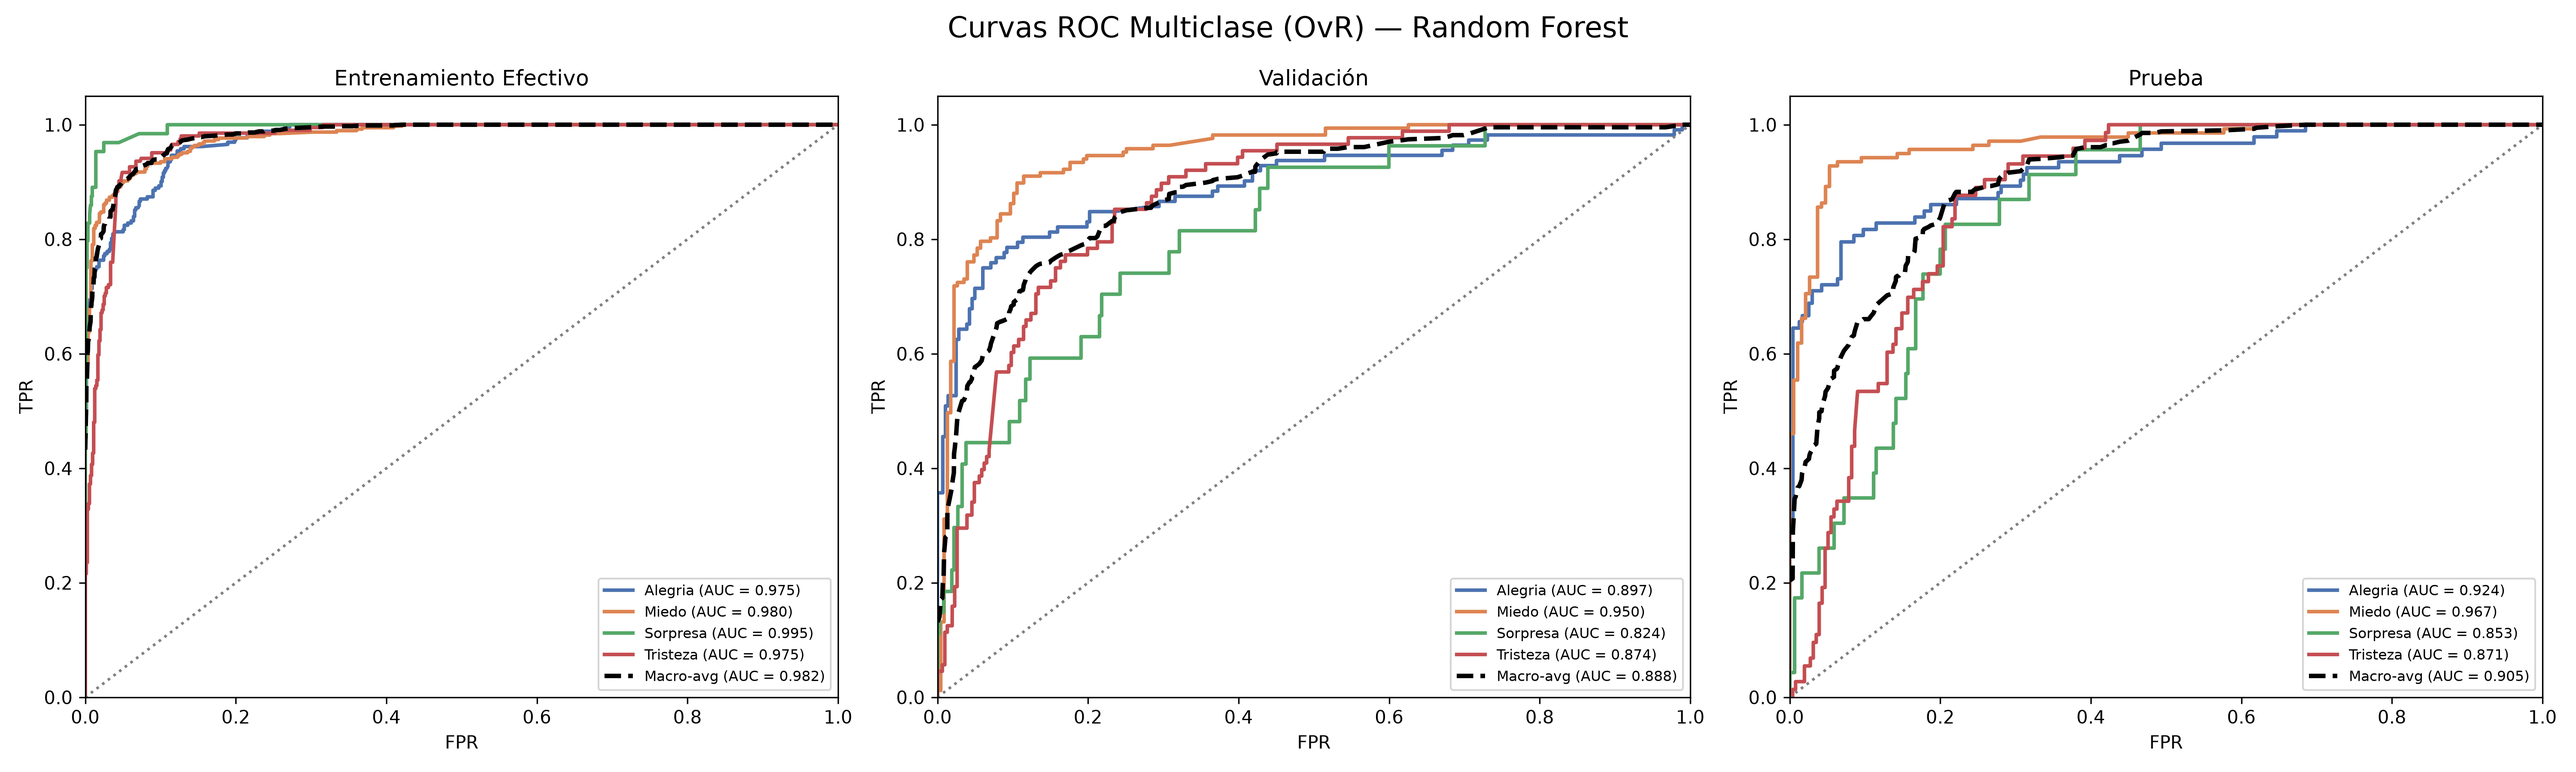
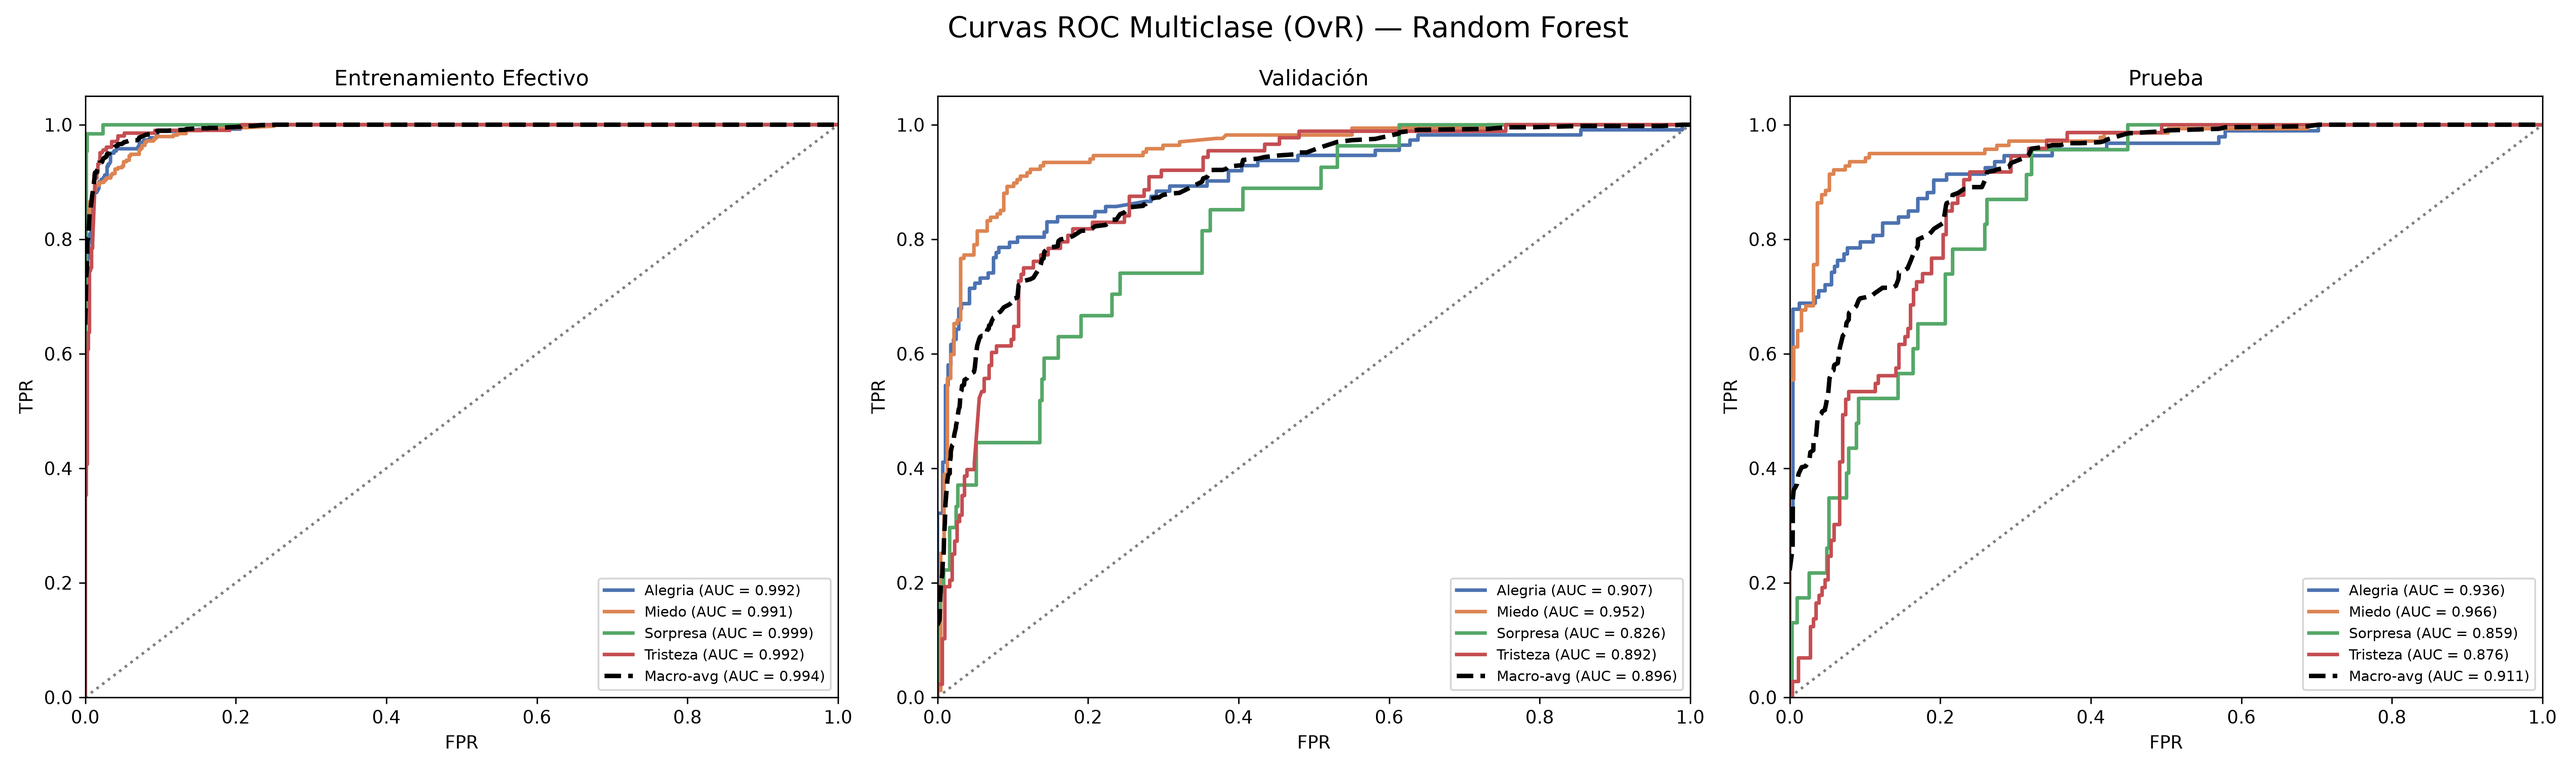
fix: quitar validación cruzada y modificar reporte de resultados

diff --git a/modelado/tecnicas-clasicas/pipeline.py b/modelado/tecnicas-clasicas/pipeline.py
@@ -6,7 +6,7 @@ import pandas as pd
 # pyrefly: ignore [missing-import]
 import matplotlib.pyplot as plt
 import seaborn as sns
-from sklearn.model_selection import train_test_split, GridSearchCV, StratifiedKFold
+from sklearn.model_selection import train_test_split
 from sklearn.feature_extraction.text import TfidfVectorizer
 from sklearn.svm import SVC
 from sklearn.calibration import CalibratedClassifierCV
@@ -137,22 +137,13 @@ def graficar_matrices_confusion_conjuntas(nombre_modelo, y_train, y_pred_train, 
 
     return nombre_archivo_cm
 
-def evaluar_modelo_grid(nombre_modelo, pipeline, param_grid,
-                        X_train, y_train, X_val, y_val, X_test, y_test,
-                        archivo_reporte, skf):
+def evaluar_modelo(nombre_modelo, pipeline,
+                     X_train, y_train, X_val, y_val, X_test, y_test,
+                     archivo_reporte):
     print(f"   -> Entrenando {nombre_modelo}...")
     
-    if param_grid:
-        print(f"      (Buscando mejores hiperparámetros con GridSearchCV...)")
-        grid = GridSearchCV(pipeline, param_grid, cv=skf, scoring='f1_macro', n_jobs=-1, verbose=1)
-        grid.fit(X_train, y_train)
-        mejor_modelo = grid.best_estimator_
-        mejores_params = grid.best_params_
-        print(f"      Mejores hiperparámetros: {mejores_params}")
-    else:
-        pipeline.fit(X_train, y_train)
-        mejor_modelo = pipeline
-        mejores_params = "Por defecto"
+    pipeline.fit(X_train, y_train)
+    mejor_modelo = pipeline
 
     clases = list(mejor_modelo.classes_)
 
@@ -170,9 +161,6 @@ def evaluar_modelo_grid(nombre_modelo, pipeline, param_grid,
 
     with open(archivo_reporte, 'a', encoding='utf-8') as f:
         f.write(f"## {nombre_modelo}\n\n")
-
-        if param_grid:
-            f.write(f"**Mejores Hiperparámetros Encontrados:** `{mejores_params}`\n\n")
 
         # — Entrenamiento Efectivo (~56%) —
         f.write("### Resultados en el Conjunto de Entrenamiento Efectivo (~56%)\n")
@@ -282,36 +270,26 @@ def ejecutar_pipeline():
             'pipeline': Pipeline([
                 ('tfidf', TfidfVectorizer(ngram_range=(1, 2), max_features=2000, min_df=5, max_df=0.85)),
                 ('clf', CalibratedClassifierCV(
-                    SVC(kernel='linear', class_weight='balanced', random_state=42),
+                    SVC(kernel='linear', C=1, class_weight='balanced', random_state=42),
                     cv=5, method='sigmoid'
                 ))
-            ]),
-            'param_grid': {
-                'clf__estimator__C': [0.1, 1, 10]
-            }
+            ])
         },
         {
             'nombre': 'Random Forest',
             'pipeline': Pipeline([
                 ('tfidf', TfidfVectorizer(ngram_range=(1, 2), max_features=2000, min_df=5, max_df=0.85)),
-                ('clf', RandomForestClassifier(class_weight='balanced', random_state=42))
-            ]),
-            'param_grid': {
-                'clf__max_depth': [10, 20, 30],
-                'clf__min_samples_split': [2, 5, 10]
-            }
+                ('clf', RandomForestClassifier(max_depth=20, min_samples_split=5, class_weight='balanced', random_state=42))
+            ])
         },
         {
             'nombre': 'Naive Bayes',
             'pipeline': Pipeline([
                 ('tfidf', TfidfVectorizer(ngram_range=(1, 2), max_features=2000, min_df=5, max_df=0.85)),
                 ('clf', MultinomialNB())
-            ]),
-            'param_grid': {} # Ejecución normal sin GridSearchCV
+            ])
         }
     ]
-    
-    skf = StratifiedKFold(n_splits=5, shuffle=True, random_state=42)
     
     archivo_reporte = os.path.join(RESULTADOS_DIR, 'reporte_modelos_clasicos.md')
     
@@ -336,17 +314,15 @@ def ejecutar_pipeline():
         f.write(f"| **Total** | **{len(y_train)}** | **{len(y_val)}** | **{len(y_test)}** |\n\n")
         f.write("---\n\n")
     
-    print("5. Entrenamiento y optimización de hiperparámetros...")
+    print("5. Entrenamiento...")
     for conf in configuraciones:
-        evaluar_modelo_grid(
+        evaluar_modelo(
             conf['nombre'], 
             conf['pipeline'], 
-            conf['param_grid'], 
             X_train, y_train,
             X_val, y_val,
             X_test, y_test,
-            archivo_reporte, 
-            skf
+            archivo_reporte
         )
         
     print(f"\nProceso completado. Reporte guardado en: {archivo_reporte}")

diff --git a/modelado/resultados_tecnicas-clasicas/reporte_modelos_clasicos.md b/modelado/resultados_tecnicas-clasicas/reporte_modelos_clasicos.md
@@ -23,8 +23,6 @@
 
 ## SVM
 
-**Mejores Hiperparámetros Encontrados:** `{'clf__estimator__C': 1}`
-
 ### Resultados en el Conjunto de Entrenamiento Efectivo (~56%)
 - **Accuracy:** 0.8691
 - **Precision (macro):** 0.8624
@@ -120,88 +118,86 @@ weighted avg       0.75      0.77      0.76       328
 
 ## Random Forest
 
-**Mejores Hiperparámetros Encontrados:** `{'clf__max_depth': 10, 'clf__min_samples_split': 2}`
-
 ### Resultados en el Conjunto de Entrenamiento Efectivo (~56%)
-- **Accuracy:** 0.8724
-- **Precision (macro):** 0.8403
-- **Recall (macro):** 0.8831
-- **F1-Score (macro):** 0.8549
+- **Accuracy:** 0.9128
+- **Precision (macro):** 0.8879
+- **Recall (macro):** 0.9290
+- **F1-Score (macro):** 0.9032
 
 ```text
               precision    recall  f1-score   support
 
-     Alegria       0.94      0.79      0.86       262
-       Miedo       0.94      0.90      0.92       387
-    Sorpresa       0.72      0.94      0.82        64
-    Tristeza       0.75      0.90      0.82       204
+     Alegria       0.98      0.86      0.92       262
+       Miedo       0.96      0.91      0.94       387
+    Sorpresa       0.80      0.98      0.88        64
+    Tristeza       0.81      0.96      0.88       204
 
-    accuracy                           0.87       917
-   macro avg       0.84      0.88      0.85       917
-weighted avg       0.89      0.87      0.87       917
+    accuracy                           0.91       917
+   macro avg       0.89      0.93      0.90       917
+weighted avg       0.92      0.91      0.91       917
 
 ```
 
 **AUC ROC (Entrenamiento):**
-- Macro-average: 0.9818
-- Alegria: 0.9753
-- Miedo: 0.9803
-- Sorpresa: 0.9951
-- Tristeza: 0.9754
+- Macro-average: 0.9940
+- Alegria: 0.9922
+- Miedo: 0.9914
+- Sorpresa: 0.9992
+- Tristeza: 0.9925
 
 ### Resultados en el Conjunto de Validación (~24%)
-- **Accuracy:** 0.7614
-- **Precision (macro):** 0.6916
-- **Recall (macro):** 0.6692
-- **F1-Score (macro):** 0.6770
+- **Accuracy:** 0.7741
+- **Precision (macro):** 0.7064
+- **Recall (macro):** 0.6743
+- **F1-Score (macro):** 0.6838
 
 ```text
               precision    recall  f1-score   support
 
-     Alegria       0.82      0.77      0.79       112
-       Miedo       0.86      0.87      0.87       167
-    Sorpresa       0.50      0.37      0.43        27
-    Tristeza       0.58      0.67      0.62        88
+     Alegria       0.80      0.77      0.79       112
+       Miedo       0.88      0.88      0.88       167
+    Sorpresa       0.53      0.33      0.41        27
+    Tristeza       0.62      0.72      0.66        88
 
-    accuracy                           0.76       394
-   macro avg       0.69      0.67      0.68       394
-weighted avg       0.76      0.76      0.76       394
+    accuracy                           0.77       394
+   macro avg       0.71      0.67      0.68       394
+weighted avg       0.77      0.77      0.77       394
 
 ```
 
 **AUC ROC (Validación):**
-- Macro-average: 0.8876
-- Alegria: 0.8968
-- Miedo: 0.9497
-- Sorpresa: 0.8237
-- Tristeza: 0.8744
+- Macro-average: 0.8962
+- Alegria: 0.9074
+- Miedo: 0.9516
+- Sorpresa: 0.8258
+- Tristeza: 0.8922
 
 ### Resultados en el Conjunto de Prueba y Evaluación (20%)
-- **Accuracy:** 0.7561
-- **Precision (macro):** 0.6444
-- **Recall (macro):** 0.6392
-- **F1-Score (macro):** 0.6387
+- **Accuracy:** 0.7530
+- **Precision (macro):** 0.6349
+- **Recall (macro):** 0.6290
+- **F1-Score (macro):** 0.6291
 
 ```text
               precision    recall  f1-score   support
 
-     Alegria       0.89      0.75      0.81        93
+     Alegria       0.85      0.74      0.79        93
        Miedo       0.93      0.90      0.92       139
-    Sorpresa       0.23      0.26      0.24        23
-    Tristeza       0.53      0.64      0.58        73
+    Sorpresa       0.23      0.22      0.22        23
+    Tristeza       0.53      0.66      0.59        73
 
-    accuracy                           0.76       328
-   macro avg       0.64      0.64      0.64       328
-weighted avg       0.78      0.76      0.77       328
+    accuracy                           0.75       328
+   macro avg       0.63      0.63      0.63       328
+weighted avg       0.77      0.75      0.76       328
 
 ```
 
 **AUC ROC (Prueba):**
-- Macro-average: 0.9051
-- Alegria: 0.9244
-- Miedo: 0.9672
-- Sorpresa: 0.8529
-- Tristeza: 0.8705
+- Macro-average: 0.9107
+- Alegria: 0.9359
+- Miedo: 0.9664
+- Sorpresa: 0.8587
+- Tristeza: 0.8755
 
 ### Gráficas de Evaluación Conjuntas
 
